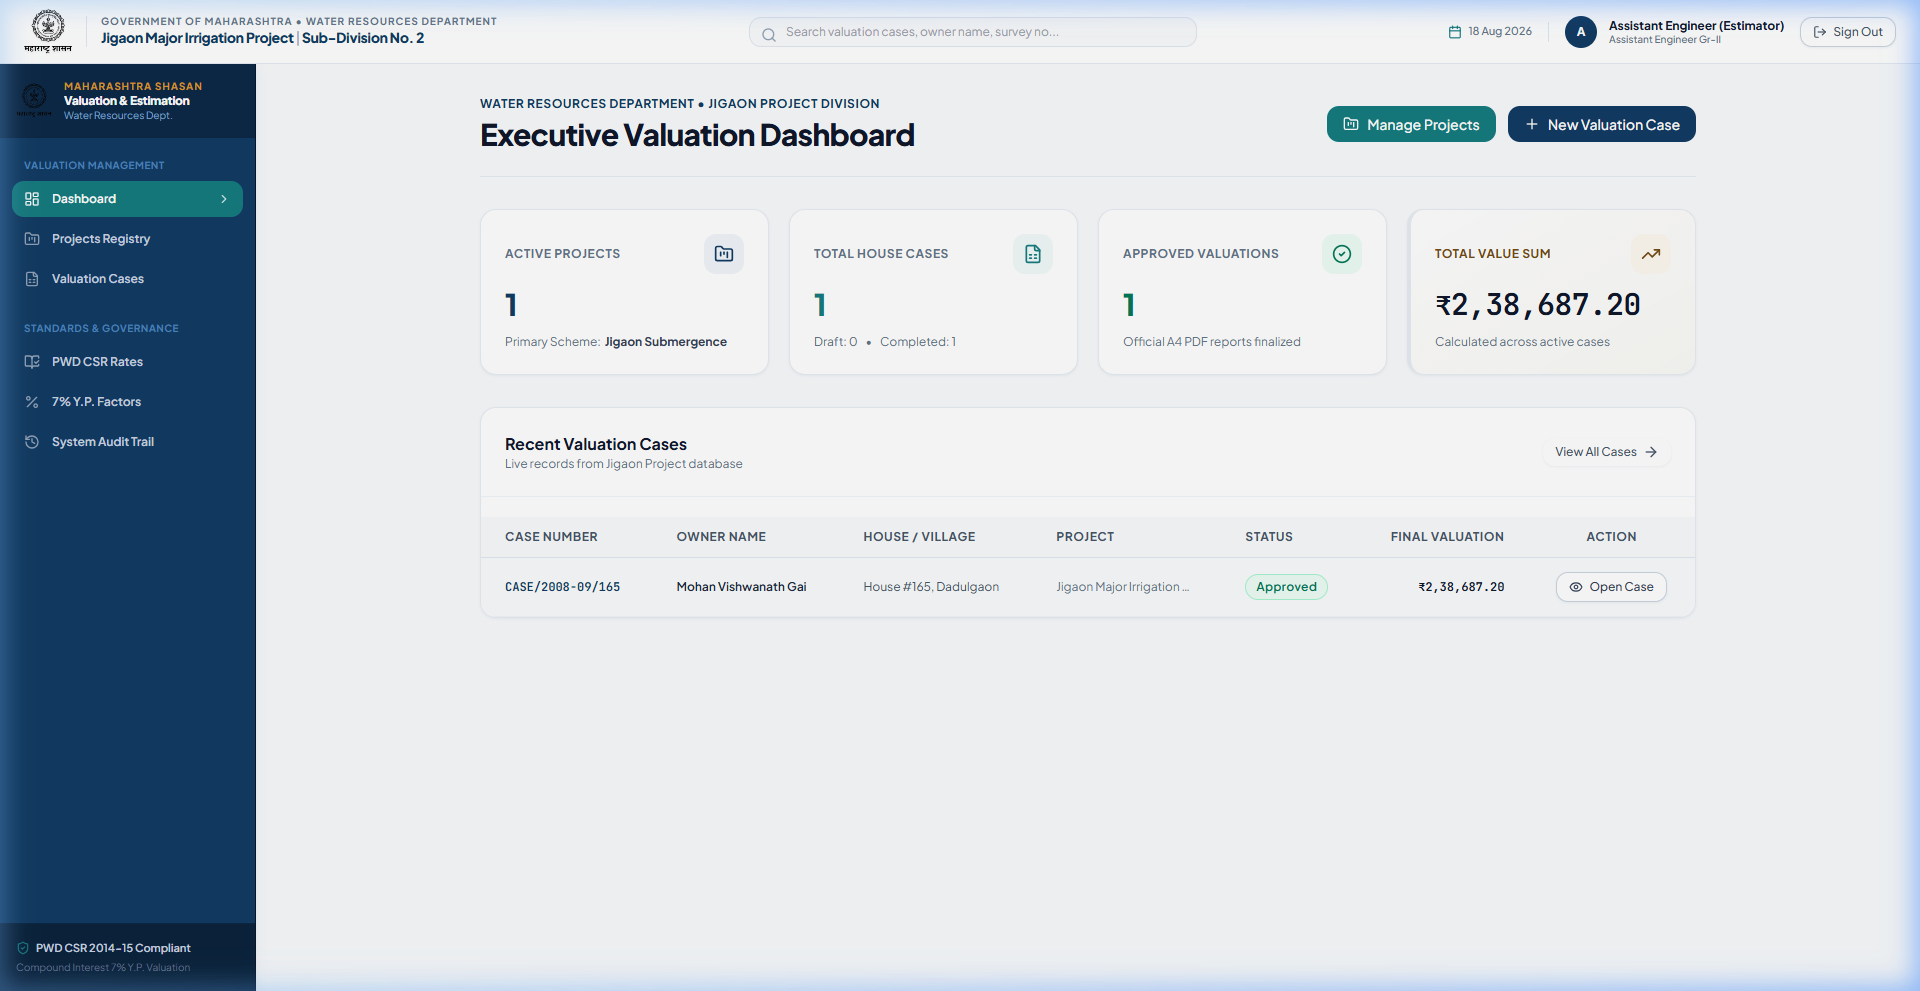
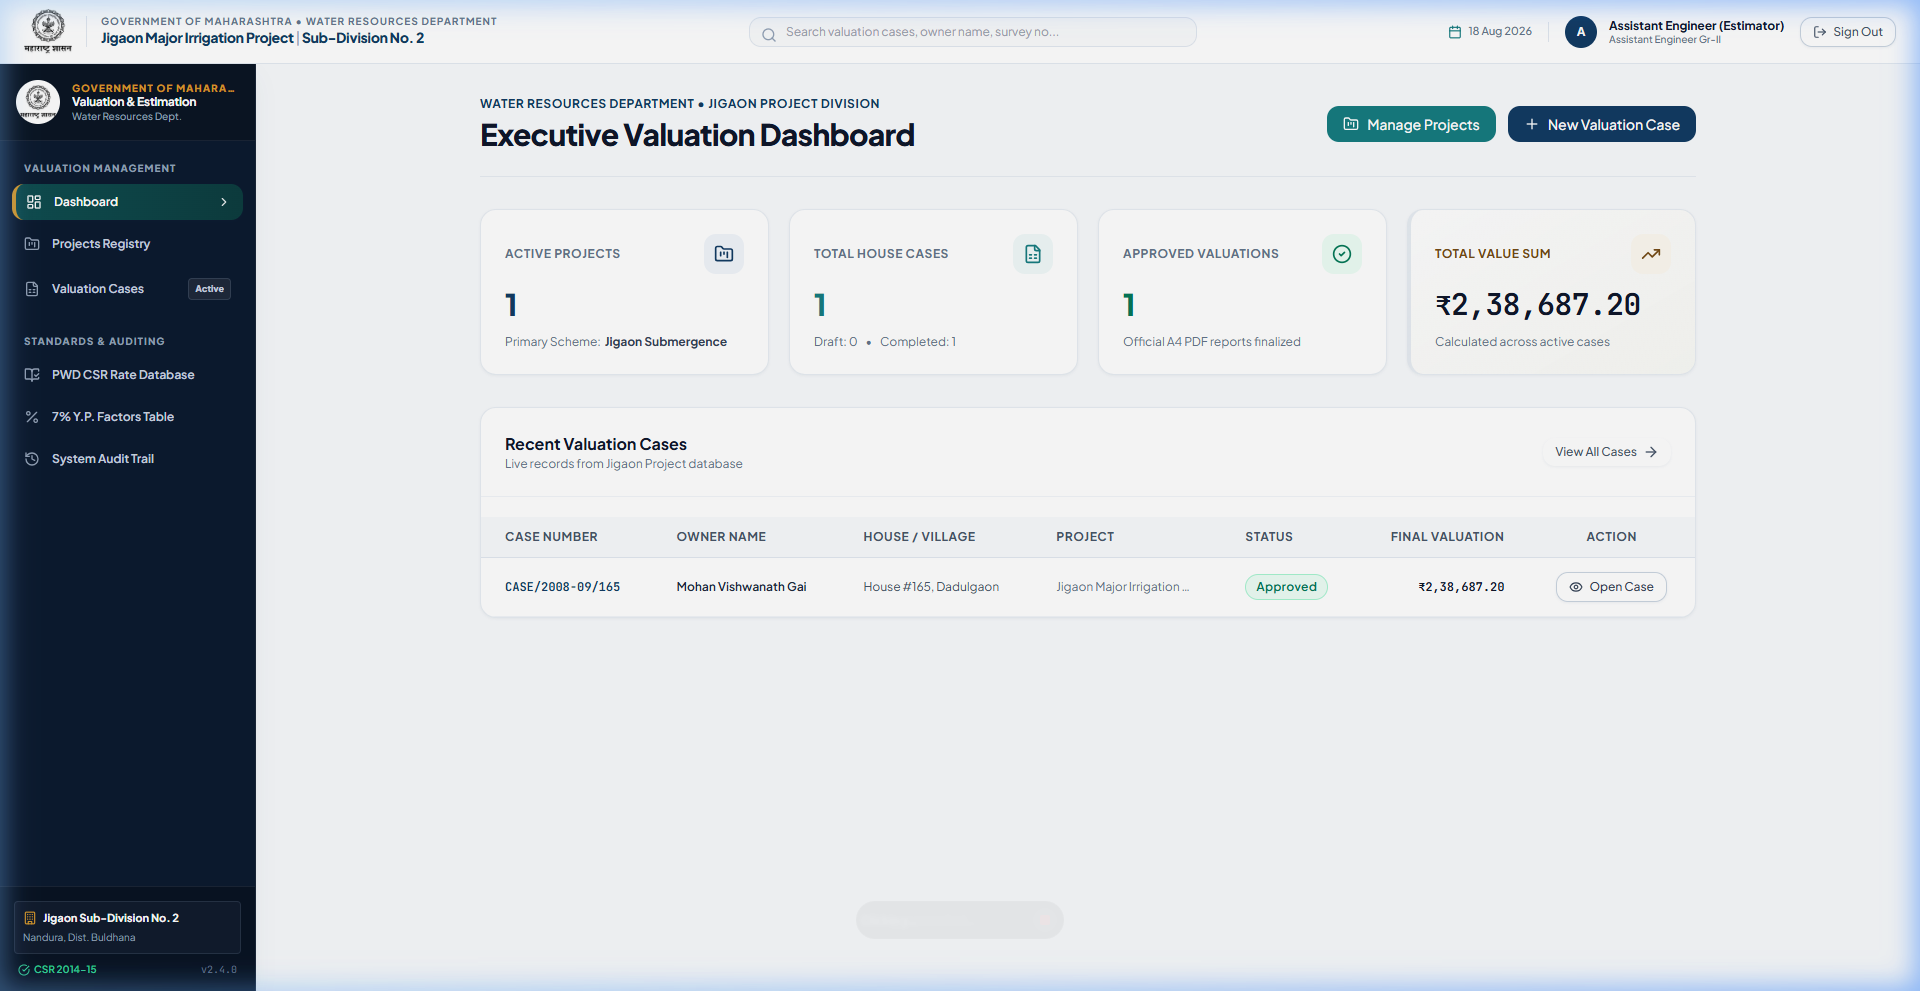
style: upgrade sidebar with executive midnight navy palette, saffron accents, and division badge

Changed region(s): [[0.0, 0.0303, 0.1562, 0.999]]

diff --git a/frontend/src/components/layout/Sidebar.tsx b/frontend/src/components/layout/Sidebar.tsx
@@ -10,12 +10,16 @@ import {
   History,
   ShieldCheck,
   ChevronRight,
+  Sparkles,
+  Building,
+  CheckCircle,
 } from 'lucide-react';
 
 interface NavItem {
   name: string;
   path: string;
   icon: React.ComponentType<{ className?: string }>;
+  badge?: string;
 }
 
 export const Sidebar: React.FC = () => {
@@ -24,39 +28,41 @@ export const Sidebar: React.FC = () => {
   const primaryNav: NavItem[] = [
     { name: 'Dashboard', path: '/dashboard', icon: LayoutDashboard },
     { name: 'Projects Registry', path: '/projects', icon: FolderKanban },
-    { name: 'Valuation Cases', path: '/cases', icon: FileSpreadsheet },
+    { name: 'Valuation Cases', path: '/cases', icon: FileSpreadsheet, badge: 'Active' },
   ];
 
   const standardsNav: NavItem[] = [
-    { name: 'PWD CSR Rates', path: '/rates', icon: BookOpenCheck },
-    { name: '7% Y.P. Factors', path: '/depreciation-factors', icon: Percent },
+    { name: 'PWD CSR Rate Database', path: '/rates', icon: BookOpenCheck },
+    { name: '7% Y.P. Factors Table', path: '/depreciation-factors', icon: Percent },
     { name: 'System Audit Trail', path: '/audit-logs', icon: History },
   ];
 
   return (
-    <aside className="w-64 bg-gov-navy text-white flex flex-col border-r border-gov-navy-900 shadow-soft-md shrink-0 select-none">
-      {/* Portal Branding Banner with Maharashtra Seal */}
-      <div className="p-4 border-b border-gov-navy-800/80 bg-gov-navy-900/50 flex items-center gap-3">
-        <GovtEmblem size="sm" variant="gold" />
-        <div className="leading-tight">
-          <div className="text-[10px] font-bold text-gov-saffron uppercase tracking-widest">
-            Maharashtra Shasan
+    <aside className="w-64 bg-[#0c1a2f] text-slate-200 flex flex-col border-r border-slate-800/80 shadow-soft-lg shrink-0 select-none h-full">
+      {/* Portal Branding Header */}
+      <div className="p-4 border-b border-slate-800/80 bg-[#081220]/70 flex items-center gap-3">
+        <div className="p-1 rounded-full bg-white shadow-soft-xs shrink-0 flex items-center justify-center">
+          <GovtEmblem size="sm" />
+        </div>
+        <div className="leading-tight overflow-hidden">
+          <div className="text-[10px] font-extrabold text-gov-saffron uppercase tracking-widest truncate">
+            Government of Maharashtra
           </div>
-          <div className="text-xs font-extrabold text-white tracking-tight">
+          <div className="text-xs font-bold text-white tracking-tight truncate">
             Valuation & Estimation
           </div>
-          <div className="text-[10px] text-gov-navy-300">
+          <div className="text-[10px] text-slate-400 font-medium truncate">
             Water Resources Dept.
           </div>
         </div>
       </div>
 
-      {/* Navigation Links */}
-      <div className="flex-1 px-3 py-5 space-y-6 overflow-y-auto">
-        {/* Core Modules */}
-        <div className="space-y-1">
-          <div className="px-3 text-[10px] font-bold text-gov-navy-400 uppercase tracking-wider mb-2">
-            Valuation Management
+      {/* Main Navigation Links */}
+      <div className="flex-1 px-3 py-5 space-y-6 overflow-y-auto scrollbar-thin">
+        {/* Core Valuation Workflow */}
+        <div className="space-y-1.5">
+          <div className="px-3 text-[10px] font-extrabold text-slate-400 uppercase tracking-widest mb-2 flex items-center justify-between">
+            <span>Valuation Management</span>
           </div>
           {primaryNav.map((item) => {
             const Icon = item.icon;
@@ -68,26 +74,39 @@ export const Sidebar: React.FC = () => {
               <NavLink
                 key={item.path}
                 to={item.path}
-                className={`flex items-center justify-between px-3 py-2.5 rounded-gov-md text-xs font-semibold transition-all group ${
+                className={`group relative flex items-center justify-between px-3 py-2.5 rounded-gov-md text-xs font-semibold transition-all ${
                   isActive
-                    ? 'bg-gov-teal text-white shadow-soft-sm'
-                    : 'text-slate-300 hover:bg-gov-navy-800 hover:text-white'
+                    ? 'bg-gradient-to-r from-gov-teal-700 to-gov-teal-800 text-white shadow-soft-sm border-l-4 border-gov-saffron pl-2.5'
+                    : 'text-slate-300 hover:bg-slate-800/60 hover:text-white'
                 }`}
               >
                 <div className="flex items-center gap-3">
-                  <Icon className={`w-4 h-4 ${isActive ? 'text-white' : 'text-slate-400 group-hover:text-white'}`} />
+                  <Icon
+                    className={`w-4 h-4 transition-colors ${
+                      isActive
+                        ? 'text-white'
+                        : 'text-slate-400 group-hover:text-gov-teal-300'
+                    }`}
+                  />
                   <span>{item.name}</span>
                 </div>
-                {isActive && <ChevronRight className="w-3.5 h-3.5 text-white/80" />}
+                <div className="flex items-center gap-1.5">
+                  {item.badge && !isActive && (
+                    <span className="text-[9px] font-extrabold px-1.5 py-0.5 rounded bg-slate-800 text-slate-300 border border-slate-700">
+                      {item.badge}
+                    </span>
+                  )}
+                  {isActive && <ChevronRight className="w-3.5 h-3.5 text-white/90" />}
+                </div>
               </NavLink>
             );
           })}
         </div>
 
         {/* Standards & Governance */}
-        <div className="space-y-1">
-          <div className="px-3 text-[10px] font-bold text-gov-navy-400 uppercase tracking-wider mb-2">
-            Standards & Governance
+        <div className="space-y-1.5">
+          <div className="px-3 text-[10px] font-extrabold text-slate-400 uppercase tracking-widest mb-2 flex items-center justify-between">
+            <span>Standards & Auditing</span>
           </div>
           {standardsNav.map((item) => {
             const Icon = item.icon;
@@ -97,31 +116,47 @@ export const Sidebar: React.FC = () => {
               <NavLink
                 key={item.path}
                 to={item.path}
-                className={`flex items-center justify-between px-3 py-2.5 rounded-gov-md text-xs font-semibold transition-all group ${
+                className={`group relative flex items-center justify-between px-3 py-2.5 rounded-gov-md text-xs font-semibold transition-all ${
                   isActive
-                    ? 'bg-gov-teal text-white shadow-soft-sm'
-                    : 'text-slate-300 hover:bg-gov-navy-800 hover:text-white'
+                    ? 'bg-gradient-to-r from-gov-teal-700 to-gov-teal-800 text-white shadow-soft-sm border-l-4 border-gov-saffron pl-2.5'
+                    : 'text-slate-300 hover:bg-slate-800/60 hover:text-white'
                 }`}
               >
                 <div className="flex items-center gap-3">
-                  <Icon className={`w-4 h-4 ${isActive ? 'text-white' : 'text-slate-400 group-hover:text-white'}`} />
+                  <Icon
+                    className={`w-4 h-4 transition-colors ${
+                      isActive
+                        ? 'text-white'
+                        : 'text-slate-400 group-hover:text-gov-teal-300'
+                    }`}
+                  />
                   <span>{item.name}</span>
                 </div>
-                {isActive && <ChevronRight className="w-3.5 h-3.5 text-white/80" />}
+                {isActive && <ChevronRight className="w-3.5 h-3.5 text-white/90" />}
               </NavLink>
             );
           })}
         </div>
       </div>
 
-      {/* Footer System Integrity Badge */}
-      <div className="p-4 border-t border-gov-navy-800/80 bg-gov-navy-950/50 text-[11px] text-slate-400 space-y-1">
-        <div className="flex items-center gap-1.5 text-slate-300 font-semibold">
-          <ShieldCheck className="w-3.5 h-3.5 text-gov-teal" />
-          <span>PWD CSR 2014-15 Compliant</span>
+      {/* Division Office & Integrity Footer */}
+      <div className="p-3.5 border-t border-slate-800/80 bg-[#081220]/80 space-y-2">
+        <div className="p-2 rounded bg-slate-800/40 border border-slate-700/60 space-y-1">
+          <div className="flex items-center gap-1.5 text-[11px] font-bold text-white">
+            <Building className="w-3.5 h-3.5 text-gov-saffron" />
+            <span className="truncate">Jigaon Sub-Division No. 2</span>
+          </div>
+          <div className="text-[10px] text-slate-400 truncate">
+            Nandura, Dist. Buldhana
+          </div>
         </div>
-        <div className="text-[10px] text-slate-500">
-          Compound Interest 7% Y.P. Valuation
+
+        <div className="flex items-center justify-between text-[10px] text-slate-400 px-1">
+          <div className="flex items-center gap-1 text-emerald-400 font-semibold">
+            <CheckCircle className="w-3 h-3" />
+            <span>CSR 2014-15</span>
+          </div>
+          <span className="font-mono text-slate-500">v2.4.0</span>
         </div>
       </div>
     </aside>
